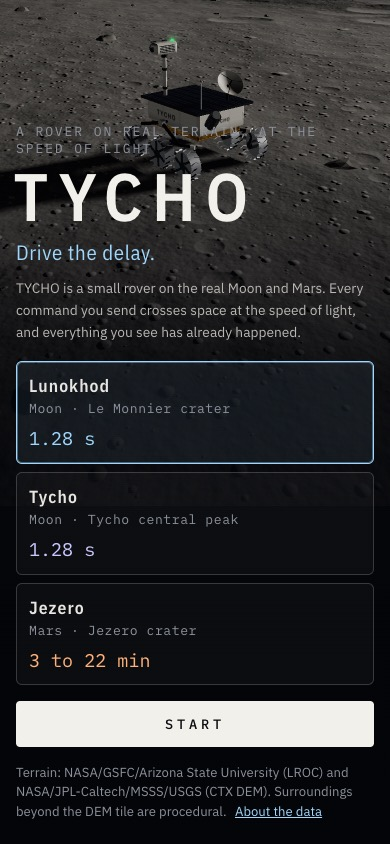
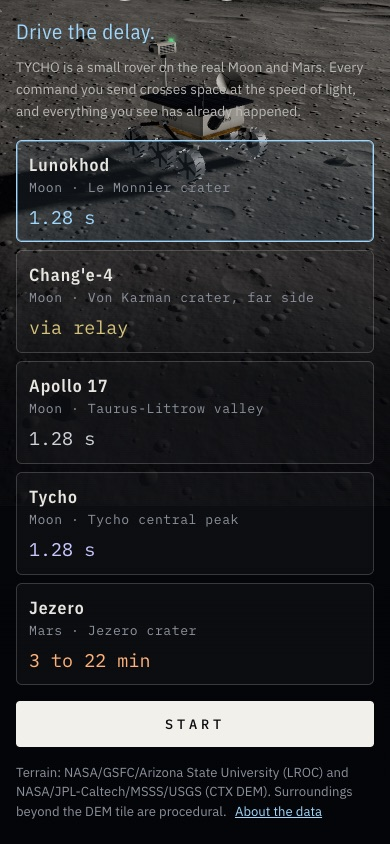
feat: relay path label, drop Opportunity, finalize wave-1 site facts
Relay contract: tools/sites/relay.py now exports RELAY_PATH_LABEL and
change4.py writes it into delayModel.pathLabel; assets/change4/meta.json
patched with the identical field so resolveDelayLabel() never falls
back to the placeholder wording for Chang'e-4. HUD relay note reads
"Relay path: <path>. About X.XX s one way (approximate model)."; the
About panel gained a caveat entry with sources. New tests: a Python
regression pinning the label, and a web test loading the real shipped
meta.json to assert the fallback never shows for change4.

Drop Opportunity: no primary source gives its precise final position
(only prose descriptions and the landing site were found), and TYCHO's
premise is real terrain, so it's cut rather than shipped on synthetic
ground. Removed from LEVEL_ORDER, the title cards, top-bar buttons,
level config, and briefs; deleted the now-unused mer-rover.js landmark
module (no other level referenced it). The playability/boot-probe
suites are already parameterized over LEVEL_ORDER, so removing the key
leaves 101 unit tests passing with 0 skips (previously 6, all for
not-yet-shipped sites).

Title/level-select layout: 5 cards now lay out in one balanced row on
desktop (grid-template-columns: repeat(5, 1fr), widened title-inner to
900px, falling back to 3 columns under 980px and 1 column under 720px);
verified with Playwright screenshots at 1440x900, 900x900, and
390x844 - no overflow or cramping at any width.
[…]

diff --git a/web/index.html b/web/index.html
@@ -36,11 +36,10 @@
     </div>
     <div class="level-select" role="group" aria-label="Level select">
       <button type="button" data-level="lunokhod" class="level-btn" aria-pressed="true">Lunokhod <span>Moon</span></button>
+      <button type="button" data-level="change4" class="level-btn" aria-pressed="false">Chang'e-4 <span>Moon</span></button>
+      <button type="button" data-level="apollo17" class="level-btn" aria-pressed="false">Apollo 17 <span>Moon</span></button>
       <button type="button" data-level="tycho" class="level-btn" aria-pressed="false">Tycho <span>Moon</span></button>
       <button type="button" data-level="mars" class="level-btn" aria-pressed="false">Jezero <span>Mars</span></button>
-      <button type="button" data-level="change4" class="level-btn" aria-pressed="false">Chang'e-4 <span>Moon</span></button>
-      <button type="button" data-level="opportunity" class="level-btn" aria-pressed="false">Opportunity <span>Mars</span></button>
-      <button type="button" data-level="apollo17" class="level-btn" aria-pressed="false">Apollo 17 <span>Moon</span></button>
     </div>
     <button type="button" id="aboutDataBtn" class="about-data-btn" aria-haspopup="dialog" aria-controls="aboutDataPanel">About the data</button>
   </header>
@@ -52,9 +51,12 @@
         <button type="button" id="aboutDataClose" class="about-data-close" aria-label="Close">&times;</button>
       </div>
       <dl class="about-data-list">
-        <div><dt>Elevation is real</dt><dd>Lunokhod: LROC NAC DTM NAC_DTM_LUNOKHOD2, 5 m/px native, NASA/GSFC/Arizona State University. Tycho: LROC NAC DTM NAC_DTM_TYCHOPK01, 2 m/px native, resampled to 2.34 m/px for this crop, NASA/GSFC/Arizona State University. Mars (Jezero): USGS CTX DEM M20_JezeroCrater_CTXDEM_20m, 20 m/px, NASA/JPL-Caltech/MSSS/USGS. All public domain / CC0. Chang'e-4, Opportunity, and Apollo 17 use the DEM product named in each level's own asset metadata once shipped; any level still running on synthetic test terrain says so on screen.</dd></div>
+        <div><dt>Elevation is real</dt><dd>Lunokhod: LROC NAC DTM NAC_DTM_LUNOKHOD2, 5 m/px native, NASA/GSFC/Arizona State University. Tycho: LROC NAC DTM NAC_DTM_TYCHOPK01, 2 m/px native, resampled to 2.34 m/px for this crop, NASA/GSFC/Arizona State University. Mars (Jezero): USGS CTX DEM M20_JezeroCrater_CTXDEM_20m, 20 m/px, NASA/JPL-Caltech/MSSS/USGS. Chang'e-4: LROC NAC DTM NAC_DTM_CHANGE4, 5 m/px native, NASA/GSFC/Arizona State University. Apollo 17: LROC NAC DTM NAC_DTM_APOLLO17, 5 m/px native, NASA/GSFC/Arizona State University. All public domain / CC0.</dd></div>
         <div><dt>Lunokhod 2's parked position is real</dt><dd>25.830°N, 30.914°E, facing southeast with its lid still open, per LROC post 699 "Lunokhod 2 Revisited". The rover model shown there is an illustrative period-accurate silhouette, not a survey model.</dd></div>
-        <div><dt>Other landmark models are illustrative</dt><dd>Chang'e-4's lander, Opportunity's rover, and Apollo 17's LRV are shown at each level's goal as illustrative type-accurate silhouettes, not survey models. Their position and facing (when known) come from that level's own data files, not invented here; a level without a sourced facing shows its landmark facing south by default.</dd></div>
+        <div><dt>Chang'e-4's landing position is real</dt><dd>45.4446°S, 177.5991°E, elevation -5935 m, landed 3 January 2019, per Liu, B. et al. 2019, "Descent trajectory reconstruction and landing site positioning of Chang'E-4 on the lunar farside", Nature Communications 10:4229.</dd></div>
+        <div><dt>The Apollo 17 LRV's parked position is real</dt><dd>20.1896°N, 30.7769°E, elevation -2628 m (±3.2 m), per LROC's "Spacecraft Related Coordinates - 2016 Update". The astronauts drove it there themselves, with no delay at all; TYCHO drives to it remotely from Earth, 1.28 s behind.</dd></div>
+        <div><dt>Other landmark models are illustrative</dt><dd>Chang'e-4's lander and Apollo 17's LRV are shown at each level's goal as illustrative type-accurate silhouettes, not survey models. Their position and facing (when known) come from that level's own data files, not invented here; a level without a sourced facing shows its landmark facing south by default.</dd></div>
+        <div><dt>Chang'e-4's relay delay is an approximate model</dt><dd>Chang'e-4 sits on the lunar far side, with no direct line of sight to Earth, so its signal relays through China's Queqiao satellite at the Earth-Moon L2 point. The one-way delay shown (about 1.71 s) is a simplified collinear estimate (Earth-Moon distance plus Queqiao's distance beyond the Moon, from the NASA Moon Fact Sheet and The Planetary Society's reporting on Queqiao's orbit), not a precise ephemeris: Queqiao's real halo orbit varies roughly 47,000-79,000 km from the Moon, and the lander is not exactly at the sub-L2 point. See <code>tools/sites/relay.py</code> for the full model and sources.</dd></div>
         <div><dt>Surface detail is procedural</dt><dd>Small craters, rocks, and regolith texture near the rover are generated decoration, not measured. Only the large-scale elevation shape comes from the real DEM.</dd></div>
         <div><dt>Earth's position is approximate</dt><dd>Shown at its real apparent size and lit consistently with the sun, but its sky position and the geography visible on it are illustrative, not a precise ephemeris.</dd></div>
         <div><dt>Mars delay is compressed for play</dt><dd>The real one-way light-time delay is 3 to 22 minutes depending on where Earth and Mars are in their orbits. This game compresses it 15x to 55x (labeled on screen each run) so a sol plan resolves in seconds, not real minutes.</dd></div>
@@ -99,6 +101,18 @@
           <span class="card-delay">1.28 s</span>
           <span class="card-note">Drive to where Lunokhod 2 still sits</span>
         </button>
+        <button type="button" class="level-card" role="radio" aria-checked="false" data-level="change4">
+          <span class="card-name">Chang'e-4</span>
+          <span class="card-meta">Moon · Von Karman crater, far side</span>
+          <span class="card-delay">via relay</span>
+          <span class="card-note">Drive to China's far-side lander</span>
+        </button>
+        <button type="button" class="level-card" role="radio" aria-checked="false" data-level="apollo17">
+          <span class="card-name">Apollo 17</span>
+          <span class="card-meta">Moon · Taurus-Littrow valley</span>
+          <span class="card-delay">1.28 s</span>
+          <span class="card-note">Reach the LRV the astronauts drove here</span>
+        </button>
         <button type="button" class="level-card" role="radio" aria-checked="false" data-level="tycho">
           <span class="card-name">Tycho</span>
           <span class="card-meta">Moon · Tycho central peak</span>
@@ -110,24 +124,6 @@
           <span class="card-meta">Mars · Jezero crater</span>
           <span class="card-delay">3 to 22 min</span>
           <span class="card-note">Plan the sol, trust the co-pilot</span>
-        </button>
-        <button type="button" class="level-card" role="radio" aria-checked="false" data-level="change4">
-          <span class="card-name">Chang'e-4</span>
-          <span class="card-meta">Moon · Von Karman crater, far side</span>
-          <span class="card-delay">via relay</span>
-          <span class="card-note">Drive to China's far-side lander</span>
-        </button>
-        <button type="button" class="level-card" role="radio" aria-checked="false" data-level="opportunity">
-          <span class="card-name">Opportunity</span>
-          <span class="card-meta">Mars · Perseverance Valley</span>
-          <span class="card-delay">3 to 22 min</span>
-          <span class="card-note">Reach the rover silenced by a dust storm</span>
-        </button>
-        <button type="button" class="level-card" role="radio" aria-checked="false" data-level="apollo17">
-          <span class="card-name">Apollo 17</span>
-          <span class="card-meta">Moon · Taurus-Littrow valley</span>
-          <span class="card-delay">1.28 s</span>
-          <span class="card-note">Reach the LRV the astronauts drove here</span>
         </button>
       </div>
       <button type="button" class="title-start" id="titleStart">Start</button>

diff --git a/web/levels.js b/web/levels.js
@@ -15,7 +15,9 @@ import { BRIEFS } from "./mission.js";
 
 // Mars scenarios: honest real one-way delay, compressed for play. "Typical"
 // matches the plan's worked example (12 min compressed 40x -> 18s wait).
-// Shared by every "mars-scenarios" delay-type level (Jezero, Opportunity).
+// Shared by every "mars-scenarios" delay-type level (currently just Jezero;
+// Opportunity would have been a second one, but it's blocked - see the
+// LEVEL_ORDER comment below).
 export const MARS_SCENARIOS = [
   { key: "close", label: "Close approach", realMinutes: 3, compression: 15 },
   { key: "typical", label: "Typical", realMinutes: 12, compression: 40 },
@@ -63,14 +65,6 @@ export const LEVELS = {
     briefLines: BRIEFS.change4,
     arrivalLine: "You reached the Chang'e-4 lander. It has sat on the lunar far side since January 2019.",
   },
-  opportunity: {
-    key: "opportunity", assetKey: "opportunity", planet: "mars", mode: "plan",
-    delay: { type: "mars-scenarios" },
-    landmarkKind: "mer",
-    label: "Opportunity", siteLabel: "Perseverance Valley, Endeavour crater",
-    briefLines: BRIEFS.opportunity,
-    arrivalLine: "You reached Opportunity. It drove here and went silent in a 2018 dust storm.",
-  },
   apollo17: {
     key: "apollo17", assetKey: "apollo17", planet: "moon", mode: "live",
     delay: { type: "direct", oneWaySec: 1.28 },
@@ -81,8 +75,18 @@ export const LEVELS = {
   },
 };
 
-// Level keys in the order they cycle (title screen arrow keys, etc).
-export const LEVEL_ORDER = ["lunokhod", "tycho", "mars", "change4", "opportunity", "apollo17"];
+// Level keys in the order they cycle (title screen arrow keys, level cards,
+// top-bar buttons). Grouped by mode: the four "live" Moon sites first,
+// easiest/most-immediate first (Lunokhod, Chang'e-4, Apollo 17 are all a
+// short drive to a real parked object), Tycho's steeper climb next, then the
+// one "plan" site (Jezero) last since it's a different mechanic (sol plan +
+// co-pilot) introduced only after the player already understands live
+// driving. Opportunity was dropped: TYCHO's premise is real terrain, and no
+// primary source for Opportunity's precise final position was found (see
+// plans/260923-2234-tycho-rover/levelup-v3/reports/w1-d-data.md) - shipping
+// it on synthetic terrain would contradict that premise, so it's cut
+// entirely rather than shipped fake. See README's "Next" note.
+export const LEVEL_ORDER = ["lunokhod", "change4", "apollo17", "tycho", "mars"];
 
 /** Resolve a Mars-scenarios-type delay scenario by key, defaulting to "typical" if unknown/omitted. */
 export function resolveScenario(scenarioKey) {

diff --git a/web/styles.css b/web/styles.css
@@ -121,12 +121,13 @@ button { font: inherit; color: inherit; }
 body.title-open .title-screen { opacity: 1; visibility: visible; transition: opacity 0.7s ease; }
 body.title-open .topbar, body.title-open .hud, body.title-open .terrain-banner, body.title-open .delay-note { opacity: 0; pointer-events: none; }
 body.title-open .hud { transform: translateY(10px); }
-.title-inner { width: min(720px, 100%); padding: 6vh 0 5vh 6vw; }
+.title-inner { width: min(900px, 100%); padding: 6vh 0 5vh 6vw; }
 .title-eyebrow { margin: 0 0 1.1rem; font-family: var(--mono); font-size: 0.82rem; letter-spacing: 0.2em; text-transform: uppercase; color: var(--muted); }
 .wordmark { margin: 0; font-family: var(--cond); font-weight: 600; font-size: clamp(4.2rem, 11vw, 9.5rem); line-height: 0.86; letter-spacing: 0.14em; color: #f2f0ea; margin-left: -0.04em; }
 .title-sub { margin: 0.9rem 0 0; font-family: var(--cond); font-size: clamp(1.3rem, 2.4vw, 1.75rem); color: var(--accent); letter-spacing: 0.03em; }
 .title-story { margin: 1rem 0 1.8rem; max-width: 44ch; color: #b9b8b3; font-size: 0.95rem; line-height: 1.6; }
-.level-cards { display: grid; grid-template-columns: 1fr 1fr 1fr; gap: 0.7rem; margin-bottom: 1.3rem; }
+.level-cards { display: grid; grid-template-columns: repeat(5, 1fr); gap: 0.6rem; margin-bottom: 1.3rem; }
+@media (max-width: 980px) { .level-cards { grid-template-columns: 1fr 1fr 1fr; gap: 0.7rem; } }
 .level-card {
   display: flex; flex-direction: column; align-items: flex-start; gap: 0.2rem; padding: 0.95rem 1rem 1rem; text-align: left; cursor: pointer;
   background: rgba(255, 255, 255, 0.03); border: 1px solid var(--line-strong); border-radius: 6px; transition: border-color 0.25s, background 0.25s;
@@ -137,7 +138,6 @@ body.title-open .hud { transform: translateY(10px); }
 .level-card[data-level="tycho"] { --card-accent: #c9c8ff; }
 .level-card[data-level="mars"] { --card-accent: #ffb27a; }
 .level-card[data-level="change4"] { --card-accent: #d6c37a; }
-.level-card[data-level="opportunity"] { --card-accent: #e08a5c; }
 .level-card[data-level="apollo17"] { --card-accent: #cfd4d8; }
 .level-card--pending { opacity: 0.7; }
 .level-card--pending .card-note { color: var(--muted); font-style: italic; }

diff --git a/web/mission.js b/web/mission.js
@@ -34,11 +34,6 @@ export const BRIEFS = {
     "One-way delay via the Queqiao relay: close enough to steer live.",
     "Drive to where China's Chang'e-4 lander has sat since January 2019, without exceeding the slope limit or stalling out.",
   ],
-  opportunity: [
-    "OPPORTUNITY - MARS, PERSEVERANCE VALLEY",
-    "The one-way delay is minutes, so you are watching the past. Place waypoints, then uplink the plan.",
-    "TYCHO's co-pilot drives the plan under the guardrails you set, toward the rover that went silent in a 2018 dust storm.",
-  ],
   apollo17: [
     "APOLLO 17 - MOON, TAURUS-LITTROW VALLEY",
     "One-way delay 1.28 s: close enough to steer live.",
@@ -134,7 +129,7 @@ export function updateMission(mission, { visibleTelemetry, simTime, terrain, tel
   // stamped by the caller - see main.js's tickPhysics) - never at the
   // rover's true present-time delivery moment, which the player can't see
   // yet (C1/H1). Keyed on mode, not a specific level key, so every
-  // plan-mode level (Jezero, Opportunity, ...) gets the same protection.
+  // plan-mode level (Jezero, or any future one) gets the same protection.
   const stallEligible = mission.mode !== "plan" || state.planActive;
   if (stallEligible && distToGoal != null) {
     if (distToGoal < m.progressBestM - STALL_PROGRESS_EPS_M) {

diff --git a/web/scene.js b/web/scene.js
@@ -212,7 +212,7 @@ export function createScene(canvas, terrain, opts = {}) {
   if (goalPx) overlays.setGoal(goalPx.x * mpp, goalPx.y * mpp);
 
   // U1: on levels with a real, still-parked landmark at the goal (Lunokhod,
-  // Chang'e-4, Opportunity, Apollo 17 - see opts.landmarkKind/web/levels.js),
+  // Chang'e-4, Apollo 17 - see opts.landmarkKind/web/levels.js),
   // render an illustrative model there so it's visible on approach, not just
   // a HUD marker (see web/landmarks.js), and a floating label naming it
   // (goalLabel from the asset's own meta.json, never invented here).

diff --git a/web/title.js b/web/title.js
@@ -52,7 +52,7 @@ const syncBody = () => {
 new MutationObserver(syncBody).observe(document.querySelector(".level-select"), { subtree: true, attributes: true, attributeFilter: ["aria-pressed"] });
 select(LEVEL_ORDER[0]);
 
-// New sites (Chang'e-4, Opportunity, Apollo 17) ship as config-driven cards
+// New sites (Chang'e-4, Apollo 17) ship as config-driven cards
 // immediately - the engine already falls back to synthetic terrain with an
 // on-screen banner if a level's assets aren't in this checkout (see
 // terrain-data.js) - but the card itself should say so up front rather than

diff --git a/web/main.js b/web/main.js
@@ -350,7 +350,7 @@ function beginRun(scenarioKey) {
     const relayLabel = resolveDelayLabel(level, terrain.meta);
     if (relayLabel) {
       el.delayNote.hidden = false;
-      el.delayNote.textContent = `Relay path: ${relayLabel} (${delaySec.toFixed(2)} s one-way).`;
+      el.delayNote.textContent = `Relay path: ${relayLabel}. About ${delaySec.toFixed(2)} s one way (approximate model).`;
     } else {
       el.delayNote.hidden = true;
     }

diff --git a/web/landmarks.js b/web/landmarks.js
@@ -5,13 +5,11 @@
 // heading via resolveLandmarkHeadingDeg() below.
 import { createParkedLunokhod } from "./lunokhod-parked.js";
 import { createChange4Lander } from "./change4-lander.js";
-import { createMerRover } from "./mer-rover.js";
 import { createApolloLrv } from "./apollo-lrv.js";
 
 const BUILDERS = {
   lunokhod2: createParkedLunokhod,
   change4: createChange4Lander,
-  mer: createMerRover,
   lrv: createApolloLrv,
 };
 

diff --git a/tools/test_relay.py b/tools/test_relay.py
@@ -7,7 +7,7 @@ import unittest
 
 sys.path.insert(0, os.path.dirname(os.path.abspath(__file__)))
 
-from sites.relay import SPEED_OF_LIGHT_KM_S, relay_light_time_sec
+from sites.relay import RELAY_PATH_LABEL, SPEED_OF_LIGHT_KM_S, relay_light_time_sec
 
 
 class RelayLightTimeTests(unittest.TestCase):
@@ -37,6 +37,14 @@ class RelayLightTimeTests(unittest.TestCase):
         direct_sec = 384_400.0 / SPEED_OF_LIGHT_KM_S
         relay_sec, _ = relay_light_time_sec()
         self.assertLess(direct_sec, relay_sec)
+
+    def test_path_label_matches_web_levels_js_fallback_exactly(self):
+        # web/levels.js's LEVELS.change4.delay.pathLabel is the fallback shown
+        # when an asset ships no meta.delayModel.pathLabel yet; once an asset
+        # DOES ship one (as change4.py now does), it must read identically so
+        # switching from the fallback to the real value is invisible on the
+        # HUD wording, only in provenance.
+        self.assertEqual(RELAY_PATH_LABEL, "Earth > Queqiao relay > far side")
 
 
 if __name__ == "__main__":

diff --git a/tools/sites/change4.py b/tools/sites/change4.py
@@ -22,7 +22,7 @@ from tiff_ifd import read_header
 
 from .common import (CACHE_DIR, MIN_CLEAR_OF_MASK_PX, enforce_clearance, line_slope_stats,
                       pick_best_spawn, shade_and_slope_1024, write_body)
-from .relay import relay_light_time_sec
+from .relay import RELAY_PATH_LABEL, relay_light_time_sec
 
 Image.MAX_IMAGE_PIXELS = None
 
@@ -140,6 +140,7 @@ def process_change4() -> None:
         "delayModel": {
             "type": "relay",
             "oneWaySec": round(one_way_sec, 2),
+            "pathLabel": RELAY_PATH_LABEL,
             "legsKm": [round(legs_km[0], 0), round(legs_km[1], 0)],
             "sources": [
                 "NASA Moon Fact Sheet (Earth-Moon 384400 km, Moon radius 1737.4 km), "

diff --git a/tools/sites/relay.py b/tools/sites/relay.py
@@ -31,6 +31,12 @@ EARTH_MOON_KM = 384_400.0  # NASA Moon Fact Sheet, semimajor axis
 QUEQIAO_BEYOND_MOON_KM = 65_000.0  # The Planetary Society, nominal L2 halo distance from Moon
 MOON_RADIUS_KM = 1_737.4  # NASA Moon Fact Sheet, mean radius
 
+# Human-readable HUD path label for this relay link. Matches web/levels.js's
+# LEVELS.change4.delay.pathLabel exactly, so the fallback and the real
+# meta.delayModel.pathLabel read the same on screen either way (see
+# resolveDelayLabel in web/levels.js).
+RELAY_PATH_LABEL = "Earth > Queqiao relay > far side"
+
 
 def relay_light_time_sec(earth_moon_km: float = EARTH_MOON_KM,
                           queqiao_beyond_moon_km: float = QUEQIAO_BEYOND_MOON_KM,

diff --git a/README.md b/README.md
@@ -21,7 +21,7 @@ On the Moon, a human can steer a rover live. Radio takes about 1.28 seconds to g
 
 On Mars you can't. The signal takes minutes each way, so by the time you see a cliff edge on your screen, the rover reached it long ago. That's why Mars rovers get a plan for the day and drive themselves between commands.
 
-TYCHO lets you feel that difference with your own hands. Most levels are live driving with a short lag, on real Moon sites (some line-of-sight, one via a relay satellite). Mars-mode levels hand over control: you plan, uplink, and trust the co-pilot. Everything you see on screen is telemetry from the past, and when the run ends the game shows you where the rover really was.
+TYCHO lets you feel that difference with your own hands. Four levels are live driving with a short lag, on real Moon sites (three line-of-sight, one via China's Queqiao relay satellite). Jezero, on Mars, hands over control: you plan, uplink, and trust the co-pilot. Everything you see on screen is telemetry from the past, and when the run ends the game shows you where the rover really was.
 
 ## How to play
 
@@ -39,6 +39,10 @@ Every level is one of two modes, described in [The level model](#the-level-model
 
 Every change in your input is sent to the rover and lands 1.28 s later. The picture you steer by is 1.28 s old. Too steep a slope and TYCHO tips. Reaching Lunokhod 2 doesn't end the mission in fiction: the game shows a short, sourced line ("You reached Lunokhod 2. It has been parked here since 1973.") and nothing more.
 
+**Chang'e-4 (Moon, Von Karman crater, far side).** Drive to China's Chang'e-4 lander, parked at 45.4446 S, 177.5991 E since it landed on 3 January 2019. The lander sits on the lunar far side, with no direct line of sight to Earth, so its signal relays through the Queqiao satellite at the Earth-Moon L2 point instead of crossing straight through the Moon. The HUD shows the real relay path and delay once the level's terrain loads (`assets/change4/meta.json` ships a sourced `delayModel`; a level without one yet would fall back to a labelled placeholder, though Chang'e-4 no longer needs to).
+
+**Apollo 17 (Moon, Taurus-Littrow valley).** Drive to the real Lunar Roving Vehicle, parked at 20.1896 N, 30.7769 E since the astronauts left it there in December 1972. Eugene Cernan and Harrison Schmitt drove the real LRV themselves, on site, with no delay at all; Apollo 17 was the last crewed Moon landing. You are driving TYCHO to it remotely from Earth, 1.28 s behind, the same delay as Lunokhod.
+
 **Jezero (Mars, near the Perseverance landing site).** Reach the goal marker near the base of the delta.
 
 1. Pick a delay scenario (close approach, typical, or near conjunction). The real one-way delay is always shown next to the compression factor used for play.
@@ -52,20 +56,18 @@ After each run a scoreboard compares success with and without the co-pilot. With
 
 Every end card has a **Copy result** button: it copies a plain-text summary (level, outcome, time, delay, co-pilot on/off, and the game's link) to your clipboard, for sharing.
 
-**Coming in this release: Chang'e-4, Opportunity, Apollo 17.** These three levels are wired up end to end (title card, brief, delay model, goal landmark) but their real DEM assets ship from a separate data pipeline run; a card without its terrain yet plays on a synthetic stand-in and says so on the card and on screen, never silently.
-
-- **Chang'e-4 (Moon, Von Karman crater, far side).** Drive to China's Chang'e-4 lander, parked since January 2019. Its delay routes through the Queqiao relay satellite (no direct line of sight to Earth from the far side); the HUD shows the real relay path once the asset ships a delay model, or a clearly-labelled 1.28 s fallback until then.
-- **Opportunity (Mars, Perseverance Valley).** A plan-mode level like Jezero: reach the rover that drove itself into a 2018 dust storm and never woke back up.
-- **Apollo 17 (Moon, Taurus-Littrow valley).** Drive to the real Lunar Roving Vehicle the astronauts drove there in December 1972, with no delay at all on their end. You are driving TYCHO to it from Earth, 1.28 s behind.
+**Next: Opportunity.** TYCHO's premise is real terrain, so a level only ships once its site has a sourced final position. Opportunity at Perseverance Valley is planned; it needs a sourced final rover position first (see [What's real and what isn't](#whats-real-and-what-isnt)).
 
 ## Screenshots
 
 | | |
 |---|---|
-| ![Title screen with the three level cards](docs/title-screen.jpg) | ![The parked Lunokhod 2, labeled, on the real Le Monnier crater DEM](docs/lunokhod-parked.jpg) |
-| **Title.** Three levels, three real sites. | **Lunokhod.** The parked Lunokhod 2, an illustrative model, labeled at its real surveyed position. |
+| ![Title screen with all five level cards](docs/title-screen.jpg) | ![The parked Lunokhod 2, labeled, on the real Le Monnier crater DEM](docs/lunokhod-parked.jpg) |
+| **Title.** Five levels, five real sites. | **Lunokhod.** The parked Lunokhod 2, an illustrative model, labeled at its real surveyed position. |
 | ![Live driving on the Moon with long shadows and the telemetry panel](docs/moon-live-drive.jpg) | ![TYCHO on Mars, mid-plan on the Jezero crater floor](docs/mars-sol-plan.jpg) |
 | **Tycho.** Live driving up the central peak. The status line shows your last command on its way, and the telemetry you're steering by is 1.3 s old. | **Jezero.** Mid-plan on the real Jezero floor. Real one-way delay 3 min, compressed 15x and labeled on screen. Everything in the panel is 12 s old. |
+| ![Approaching the Chang'e-4 lander with the relay delay note on screen](docs/change4-lander.jpg) | ![Approaching the Apollo 17 LRV on the real Taurus-Littrow DEM](docs/apollo17-lrv.jpg) |
+| **Chang'e-4.** Approaching the real far-side lander. The relay path and its approximate one-way delay are on screen. | **Apollo 17.** Approaching the real parked LRV in Taurus-Littrow valley. |
 | ![End-of-run reveal: a translucent ghost rover ahead of the solid one](docs/reveal-true-vs-seen.jpg) | |
 | **The reveal.** The solid rover is what you saw. The ghost is where TYCHO really was at that moment. | |
 
@@ -81,15 +83,18 @@ Honesty is the point of this project, so here's the line, drawn plainly. The sam
 | **Real** | Lunokhod 2's parked position | 25.830 N, 30.914 E, facing southeast, lid still open. From LROC post 699, "Lunokhod 2 Revisited". The parked-rover model in the goal spot is an illustrative period-accurate silhouette, not a survey model. |
 | **Real** | Tycho elevation | LROC NAC DTM `NAC_DTM_TYCHOPK01` (Tycho central peak, native 2 m/px). A 2.4 km square crop resampled to 1024 x 1024, about 2.34 m/px. 1,857 m of relief in the crop. |
 | **Real** | Mars elevation | USGS CTX DEM `M20_JezeroCrater_CTXDEM_20m` at native 20 m/px. A 1024 x 1024 window (20.48 km square) centered on the Perseverance landing site, 18.4447 N, 77.4508 E. |
-| **Real** | Moon signal delay (Lunokhod and Tycho) | 1.28 s one way, driven live with no compression. |
+| **Real** | Chang'e-4 elevation and landing position | LROC NAC DTM `NAC_DTM_CHANGE4` (Von Karman crater, native 5 m/px). A 5.12 km square crop at native resolution, centered on the lander's surveyed position, 45.4446 S, 177.5991 E, landed 3 January 2019. Source: Liu, B. et al. 2019, "Descent trajectory reconstruction and landing site positioning of Chang'E-4 on the lunar farside", *Nature Communications* 10:4229. |
+| **Real** | Apollo 17 elevation and LRV position | LROC NAC DTM `NAC_DTM_APOLLO17` (Taurus-Littrow valley, native 5 m/px). A 5.12 km square crop at native resolution, centered on the LRV's parked position, 20.1896 N, 30.7769 E (elevation -2628 m, uncertainty ±3.2 m). Source: LROC, "Spacecraft Related Coordinates - 2016 Update". |
+| **Real** | Moon signal delay (Lunokhod, Tycho, Apollo 17) | 1.28 s one way, driven live with no compression. |
+| **Real, approximate model** | Chang'e-4 relay delay | About 1.71 s one way through the Queqiao relay satellite: Earth to Queqiao plus Queqiao to the far-side lander, from the NASA Moon Fact Sheet (Earth-Moon distance, Moon radius) and The Planetary Society's reporting on Queqiao's nominal L2 halo distance. A simplified collinear model, not a precise ephemeris (`tools/sites/relay.py` documents the full derivation and its stated uncertainty). |
 | **Real, compressed** | Mars signal delay | The real one-way value (3, 12 or 22 min) is always on screen. Play time is compressed 15x, 40x or 55x, so the one-way wait is 12 to 24 s. The compression factor is on screen too. |
 | **Real limits, documented in code** | Physics | Rover tips above 32 degrees of slope (`web/rover-sim.js`). The co-pilot's default guardrail is a more cautious 25 degrees (`web/copilot.js`). Slope is measured over a rover-scale 3 m baseline. |
 | **Real gaps** | No-data areas | Where the orbital stereo model has no data, the ground is dimmed and hatched and treated as impassable. The rover stops there and the co-pilot won't route through it. Lunokhod's crop has almost none (0.076% of cells); the Tycho crop, cut from a rotated swath edge, has more. |
 | **Procedural** | Near-field detail | Small craters, rocks and fine surface texture near the rover are generated decoration. Only the large-scale shape comes from the DEM. |
 | **Approximate** | Earth in the lunar sky | Shown at a realistic apparent size, but its sky position is illustrative, not an ephemeris. |
 | **Not photos** | Surface color | Shaded from the elevation data with a Moon or Mars palette. No orbital imagery is used. |
-| **Data-driven proxies** | Tycho and Mars spawn/goal | Picked by code from the DEM (lowest safe slope, highest reachable point, roughness near the delta), then moved where testing showed the original spot couldn't be won. Every move is logged in `assets/*/meta.json`. Lunokhod's goal is not a proxy (it's the real parked-rover coordinate); its spawn is a code-picked point 2.06 km south, along the rover's real historic approach direction. |
-| **Coming in this release** | Chang'e-4, Opportunity, Apollo 17 elevation and landmark facts | Wired up end to end in the game (`web/levels.js`), but their real DEM/meta assets ship from a separate data pipeline run and aren't in this checkout yet. Each plays on labelled synthetic terrain until then; nothing about their real sites is asserted here that hasn't been sourced. |
+| **Data-driven proxies** | Tycho and Mars spawn/goal | Picked by code from the DEM (lowest safe slope, highest reachable point, roughness near the delta), then moved where testing showed the original spot couldn't be won. Every move is logged in `assets/*/meta.json`. Lunokhod's goal is not a proxy (it's the real parked-rover coordinate); its spawn is a code-picked point 2.06 km south, along the rover's real historic approach direction. Chang'e-4 and Apollo 17's goals are the real surveyed coordinates too; neither landing has a sourced approach bearing, so each spawn is the code-picked point (1.5-3 km out) whose straight drivable line to the goal has the lowest max slope, searched across every compass bearing (`tools/sites/common.py`'s `pick_best_spawn`). |
+| **Not shipped** | Opportunity | TYCHO's premise is real terrain. No primary source gives Opportunity's precise final position at Perseverance Valley (only prose descriptions and the *landing* site were found; see `plans/260923-2234-tycho-rover/levelup-v3/reports/w1-d-data.md`), so it isn't shipped rather than shipped on synthetic ground. |
 
 ## How it works
 
@@ -117,7 +122,7 @@ Every level in `web/levels.js` separates three independent axes, so no other mod
 
 `assetKey` is separate again: it's only ever used to pick the `assets/<assetKey>/` directory to fetch (`terrain-data.js`); several levels can share one (Tycho and Lunokhod are both `planet: "moon"`, but Tycho's `assetKey` is `"moon"` and Lunokhod's is `"lunokhod"`).
 
-A level with a real, still-there object at its goal (a parked rover, a lander) sets `landmarkKind` (one of `lunokhod2`, `change4`, `mer`, `lrv`) to place an illustrative model there - see `web/landmarks.js` and the per-model files (`lunokhod-parked.js`, `change4-lander.js`, `mer-rover.js`, `apollo-lrv.js`). Its facing comes from the terrain's own `meta.json` (`landmarkHeadingDeg` or a compass string `landmarkHeadingCompass`), defaulting to south if the asset names none - never invented in code.
+A level with a real, still-there object at its goal (a parked rover, a lander) sets `landmarkKind` (one of `lunokhod2`, `change4`, `lrv`) to place an illustrative model there - see `web/landmarks.js` and the per-model files (`lunokhod-parked.js`, `change4-lander.js`, `apollo-lrv.js`). Its facing comes from the terrain's own `meta.json` (`landmarkHeadingDeg` or a compass string `landmarkHeadingCompass`), defaulting to south if the asset names none - never invented in code.
 
 **To add a new site:** run the data pipeline to produce `assets/<key>/{height.bin,meta.json,mask.bin,albedo.jpg}`, add one entry to `LEVELS` in `web/levels.js` (planet, mode, delay, optional `landmarkKind`/`arrivalLine`), add its key to `LEVEL_ORDER`, add brief lines to `BRIEFS` in `web/mission.js`, and add a `.level-btn` + `.level-card` pair in `web/index.html`. The engine (terrain loading, mission state, HUD, scoreboard, share text) needs no other changes; `tests/levels.test.mjs` and the parameterized bots in `tests/playability.test.mjs` pick the new level up automatically (the bots SKIP with an explicit reason, not a silent pass, until the level's real assets are present).
 
@@ -162,14 +167,14 @@ A stereo DEM is noisy at the single-pixel level, and a rover doesn't feel one pi
 `npm run gate` runs three stages and fails on any of them:
 
 1. **Lint:** a syntax check over every module.
-2. **Unit tests:** `node:test` cases (95 passing, plus 6 `SKIP`s with explicit reasons for the three not-yet-shipped sites - see below) covering the signal link, rover physics, co-pilot, mission state machine, telemetry-only views, load races, scoreboard (including abandoned-run exclusion and the v1-to-v2 level-key migration), share-result formatting, terrain sampling, and the level model itself (`tests/levels.test.mjs`: every level resolves a valid planet/mode/delay, relay-delay math and its fallback, and a regression check that the old hardcoded `"mars"`/`"lunokhod"`/`level.body` checks this wave removed don't reappear).
+2. **Unit tests:** `node:test` cases (101 passing, 0 `SKIP`s - every shipped level's real assets are in this checkout) covering the signal link, rover physics, co-pilot, mission state machine, telemetry-only views, load races, scoreboard (including abandoned-run exclusion and the v1-to-v2 level-key migration), share-result formatting, terrain sampling, and the level model itself (`tests/levels.test.mjs`: every level resolves a valid planet/mode/delay, relay-delay math and its fallback, that Chang'e-4's shipped `meta.json` resolves a real relay path label (never the fallback wording), and a regression check that the old hardcoded `"mars"`/`"lunokhod"`/`level.body` checks this wave removed don't reappear).
 3. **Boot probe:** `scripts/verify_boot.mjs` serves the repo and drives the real game in headless Chromium with WebGL.
 
-The unit tests include **playability bots** (`tests/playability.test.mjs`), parameterized over every level in `LEVEL_ORDER`. They load the real shipped DEMs and must actually win, running the real mission state machine; a level whose `assets/<key>/` isn't in the checkout yet `SKIP`s with the reason ("assets/.../ not present in this worktree (data lane pending)") instead of silently passing. The Lunokhod and Tycho bots only see telemetry through `signal.js`, 1.28 s stale, and steer a safety-buffered A* route to the goal without tipping or touching no-data ground; Lunokhod's crater-field microterrain needed a pure-pursuit lookahead (steer at a point up to 20 m ahead on the route, not just the next grid cell) to drive it at a realistic speed instead of crawling - the same technique now backs the generic live-mode bot used for any new live level. The Mars bot uplinks a plan through each of the three delay settings (3, 12 and 22 min real, compressed) on the shipped default guardrails and must arrive every time; the same shape (generalized) backs Opportunity once its assets ship. Two real bugs surfaced this way: at the two longer Mars delays the stall timer started before the player could even see the rover move, so those runs could never be won; and Lunokhod's real terrain forced long stretches without straight-line progress toward the goal while going around microterrain, which needed the stall timeout raised from 20 s to 75 s (an honest widening of a fairness margin, not a special case for the bot). The bots are also the proof that the slope smoothing matters, as described in the section above.
+The unit tests include **playability bots** (`tests/playability.test.mjs`), parameterized over every level in `LEVEL_ORDER`. They load the real shipped DEMs and must actually win, running the real mission state machine; a level whose `assets/<key>/` isn't in the checkout yet `SKIP`s with the reason ("assets/.../ not present in this worktree (data lane pending)") instead of silently passing. The Lunokhod and Tycho bots only see telemetry through `signal.js`, 1.28 s stale, and steer a safety-buffered A* route to the goal without tipping or touching no-data ground; Lunokhod's crater-field microterrain needed a pure-pursuit lookahead (steer at a point up to 20 m ahead on the route, not just the next grid cell) to drive it at a realistic speed instead of crawling - the same technique now backs the generic live-mode bot used for any new live level. The Mars bot uplinks a plan through each of the three delay settings (3, 12 and 22 min real, compressed) on the shipped default guardrails and must arrive every time; the same shape (generalized) backs any future plan-mode level. Two real bugs surfaced this way: at the two longer Mars delays the stall timer started before the player could even see the rover move, so those runs could never be won; and Lunokhod's real terrain forced long stretches without straight-line progress toward the goal while going around microterrain, which needed the stall timeout raised from 20 s to 75 s (an honest widening of a fairness margin, not a special case for the bot). The bots are also the proof that the slope smoothing matters, as described in the section above.
 
 The boot probe checks that the real DEM renders on the flagship Lunokhod level, that the rover's true state doesn't move until the one-way delay has passed (observed: about 1.4 s for 1.28 s), and that your view doesn't change until the round trip is done (observed: about 2.7 s for 2.56 s). It also confirms Tycho boots cleanly, that a Mars plan waits out its 12 s compressed delay, that the co-pilot holds instead of driving onto a slope it's forbidden to cross, and that switching from Tycho to Mars clears Tycho's status line instead of leaving it stuck on screen. It then iterates every other level in `LEVEL_ORDER`: one whose assets are present in the checkout gets the same real-DEM + positive-delay proof; one without is logged and skipped, not asserted against - that gate belongs to the data pipeline lane, not this one.
 
-The Python pipeline has its own 34 offline tests: georef round trips (including the Lunokhod raster's different GeoKey combination), nodata fill and mask, resampling, site picking (including the new directional picker used to place Lunokhod's spawn) and the meta schema.
+The Python pipeline has its own 42 offline tests: georef round trips (including the Lunokhod raster's different GeoKey combination), nodata fill and mask, resampling, site picking (including the directional spawn picker used by Lunokhod, Chang'e-4, and Apollo 17), the meta schema, and the Chang'e-4/Apollo 17 far-side relay light-time model (`tools/test_relay.py`).
 
 ## Run it locally
 
@@ -192,7 +197,7 @@ Then open <http://localhost:8000/>. The root page redirects to `web/`.
 **Commands**
 
 ```sh
-npm run gate                                         # lint + 83 unit tests + headless boot probe
+npm run gate                                         # lint + 101 unit tests + headless boot probe
 python3 tools/build_terrain.py all                   # re-download and rebuild the Tycho and Mars terrains
 python3 tools/build_terrain.py lunokhod              # re-download and rebuild the Lunokhod terrain (not part of "all")
 python3 tools/patch_playability_sites.py             # re-apply the documented spawn/goal fixes
@@ -211,6 +216,9 @@ The delays and the 1970s crews show up in the game itself. The rest is context f
 | Lunokhod 1 was **driven live from Earth by a five-person team** (1970) | "guided in real-time by a five person team" ([NASA APOD, 9 January 1999](https://science.nasa.gov/image-article/apod-1999-january-09-lunokhod-moon-robot/)) |
 | Lunokhod 2 landed **15 January 1973** and was **controlled remotely from Earth** | "The ensemble was launched on 11 January 1973 and the landing occurred on 15 January" and "The rover was controlled remotely by a team of Soviet controllers on Earth." ([LROC, Lunokhod 2 Revisited, post 699](https://lroc.im-ldi.com/posts/699)) |
 | Lunokhod 2 is **still parked at 25.830 N, 30.914 E**, facing southeast, lid still open | "Lunokhod 2 rover is still parked on the floor of the crater Le Monnier (25.830°N, 30.914°E)" and "Lunokhod 2 rover parked facing southeast with the lid still open." ([LROC, Lunokhod 2 Revisited, post 699](https://lroc.im-ldi.com/posts/699)) |
+| Chang'e-4 landed on the lunar far side at **45.4446 S, 177.5991 E on 3 January 2019** | "the precise location of the landing site is 177.5991°E, 45.4446°S with an elevation of −5935 m" and "The Chang'E-4 (CE-4) spacecraft successfully landed on the lunar farside on January 3, 2019." ([Liu, B. et al. 2019, Nature Communications 10:4229](https://pmc.ncbi.nlm.nih.gov/articles/PMC6760200/)) |
+| The Apollo 17 LRV is **still parked at 20.1896 N, 30.7769 E** | Crewed-missions table, row "Apollo 17 LRV \| 20.1896 \| 30.7769 \| -2628 \| 3.2" (mean observed lat/lon, elevation m, uncertainty m) ([LROC, Spacecraft Related Coordinates - 2016 Update](https://lroc.im-ldi.com/images/938)) |
+| Apollo 17 (December 1972) was **the last crewed Moon landing**, and the astronauts drove the real LRV themselves with no delay | "This Week in NASA History: Apollo 17, Final Crewed Mission to the Moon, Launches" and "the last time humans walked on the Moon" ([NASA, Apollo 17](https://www.nasa.gov/mission/apollo-17/); [NASA Marshall history](https://www.nasa.gov/centers/marshall/history/this-week-in-nasa-history-apollo-17-final-crewed-mission-to-the-moon-launches-dec-7.html)) |
 | Perseverance's top speed is **0.152 km/h** | "just under 0.1 mph (152 meters per hour)" on flat, hard ground ([NASA Science, Perseverance rover components](https://science.nasa.gov/mission/mars-2020-perseverance/rover-components/)) |
 
 TYCHO itself is much faster than Perseverance (up to 3 m/s). That's a game choice so a run takes minutes, not days.
@@ -220,6 +228,8 @@ TYCHO itself is much faster than Perseverance (up to 3 m/s). That's a game choic
 - **Lunokhod site terrain:** LROC NAC DTM `NAC_DTM_LUNOKHOD2`, credit **NASA/GSFC/Arizona State University**. "LROC Reduced Data Record (RDR) products available through the NASA Planetary Data System (PDS) are in the public domain." [Product page](https://data.lroc.im-ldi.com/lroc/view_rdr/NAC_DTM_LUNOKHOD2).
 - **Tycho terrain:** LROC NAC DTM `NAC_DTM_TYCHOPK01`, credit **NASA/GSFC/Arizona State University**. Same PDS public-domain terms. [Product page](https://data.lroc.im-ldi.com/lroc/view_rdr/NAC_DTM_TYCHOPK01).
 - **Mars terrain:** USGS CTX DEM `M20_JezeroCrater_CTXDEM_20m`, credit **NASA/JPL-Caltech/MSSS/USGS** (USGS Astrogeology). Under NASA's data policy, "data from a NASA-led mission is licensed as Creative Commons Zero (CC0); public domain, no usage restrictions." [Source directory](https://planetarymaps.usgs.gov/mosaic/mars2020_trn/CTX/ScienceInvestigationMaps_JPL/).
+- **Chang'e-4 terrain:** LROC NAC DTM `NAC_DTM_CHANGE4`, credit **NASA/GSFC/Arizona State University**. Same PDS public-domain terms. [Product page](https://data.lroc.im-ldi.com/lroc/view_rdr/NAC_DTM_CHANGE4). Landing coordinates and date: [Liu, B. et al. 2019, Nature Communications 10:4229](https://pmc.ncbi.nlm.nih.gov/articles/PMC6760200/).
+- **Apollo 17 terrain:** LROC NAC DTM `NAC_DTM_APOLLO17`, credit **NASA/GSFC/Arizona State University**. Same PDS public-domain terms. [Product page](https://data.lroc.im-ldi.com/lroc/view_rdr/NAC_DTM_APOLLO17). LRV coordinates: [LROC, Spacecraft Related Coordinates - 2016 Update](https://lroc.im-ldi.com/images/938).
 - **Rendering:** [three.js](https://threejs.org/), MIT License.
 - **Fonts:** IBM Plex, loaded from Google Fonts, SIL Open Font License.
 - **Code:** MIT, see [LICENSE](LICENSE).
